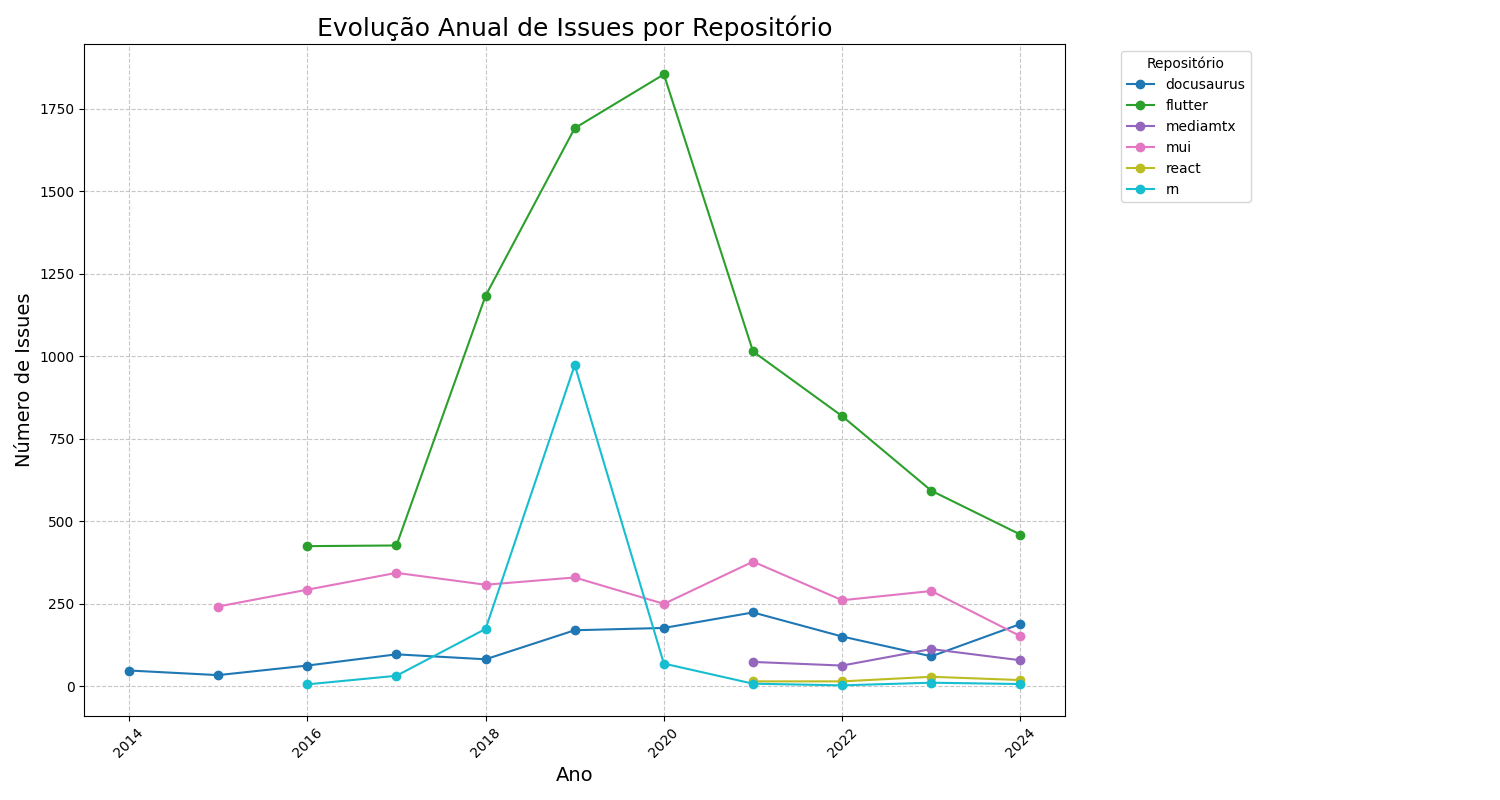
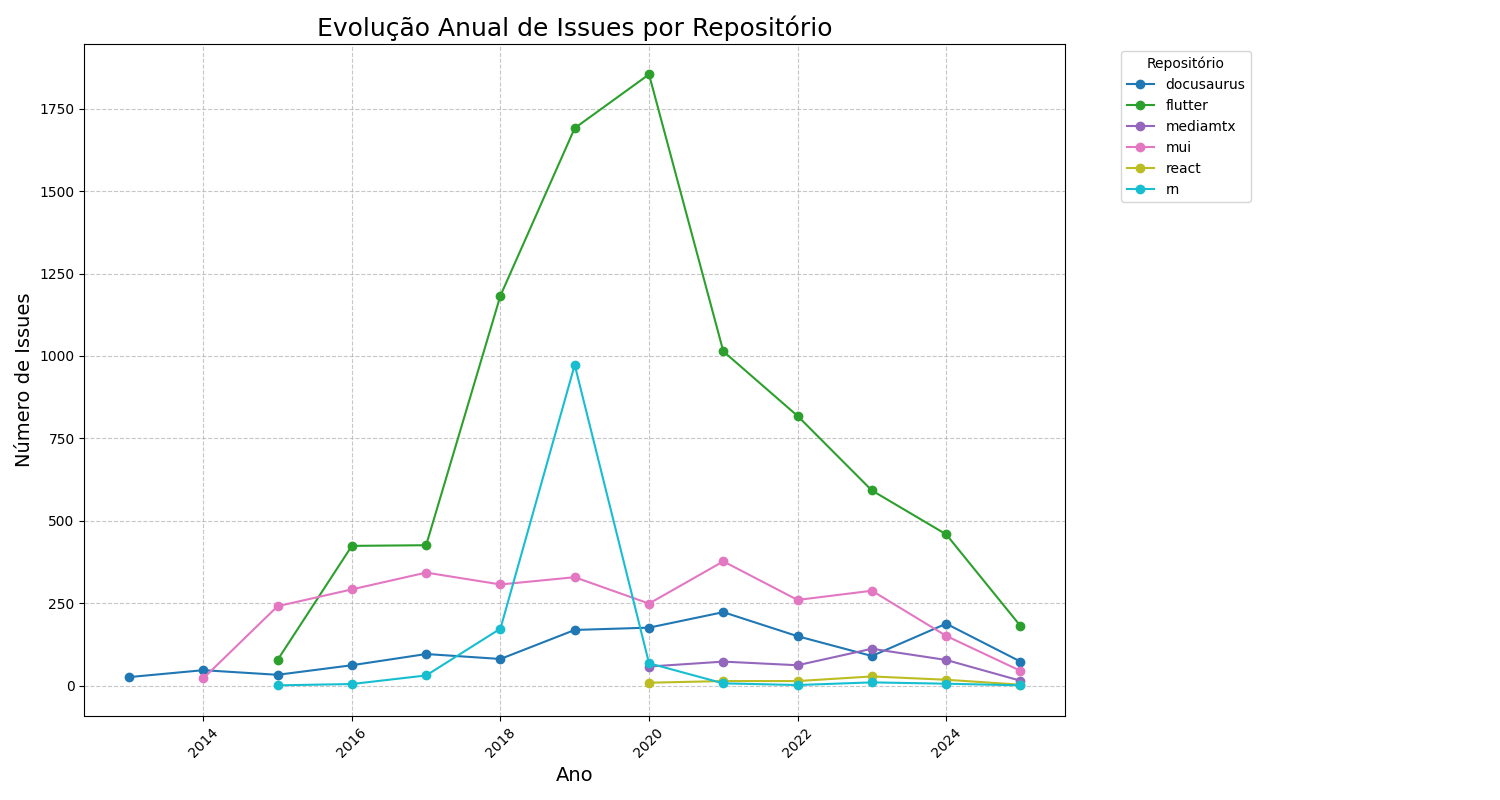
o o plot.py também cria um gráfico de linhas com as médias anuais por período

diff --git a/plot.py b/plot.py
@@ -5,94 +5,133 @@ import glob
 from matplotlib.ticker import MaxNLocator  # Para melhor controle dos ticks do eixo X
 
 
-def plotar_contagem_consolidada_anual():
+def plotar_analises_consolidadas():  # Renomeada para refletir que plota mais de uma análise
     """
-    Lê todos os arquivos CSV de contagem anual de issues,
-    plota todos em um único gráfico de linhas e salva como uma imagem PNG.
+    Gera dois gráficos consolidados:
+    1. Evolução anual de issues por repositório.
+    2. Média anual de issues por período (Antes_2023, Depois_2023) por repositório.
+    Os gráficos são salvos como imagens PNG.
     """
     pasta_entrada = "mine_results"
     pasta_saida_plots = os.path.join(pasta_entrada, "plots_contagem_anual")
 
-    # Criar a pasta de saída para os gráficos, se não existir
     os.makedirs(pasta_saida_plots, exist_ok=True)
 
-    # Padrão para encontrar os arquivos CSV de contagem anual
-    padrao_arquivos_csv = os.path.join(pasta_entrada, '*_contagem_anual.csv')
-    arquivos_csv_contagem = glob.glob(padrao_arquivos_csv)
+    # --- GRÁFICO 1: Evolução Anual de Issues por Repositório ---
+    print("--- Gerando Gráfico 1: Evolução Anual de Issues ---")
+    padrao_arquivos_contagem_anual = os.path.join(pasta_entrada, '*_contagem_anual.csv')
+    arquivos_csv_contagem_anual = glob.glob(padrao_arquivos_contagem_anual)
 
-    if not arquivos_csv_contagem:
-        print(f"Nenhum arquivo CSV de contagem anual ('*_contagem_anual.csv') encontrado em '{pasta_entrada}'.")
-        print("Certifique-se de que o script 'analise.py' foi executado e gerou esses arquivos.")
-        return
+    if not arquivos_csv_contagem_anual:
+        print(f"  Nenhum arquivo CSV de contagem anual ('*_contagem_anual.csv') encontrado em '{pasta_entrada}'.")
+    else:
+        print(f"  📊 Encontrados {len(arquivos_csv_contagem_anual)} arquivos para o gráfico de evolução anual.")
+        plt.figure(figsize=(15, 8))
+        cores_anual = plt.cm.get_cmap('tab10', len(arquivos_csv_contagem_anual))
 
-    print(f"📊 Encontrados {len(arquivos_csv_contagem)} arquivos de contagem anual para plotar no gráfico consolidado.")
+        for i, csv_file_path in enumerate(arquivos_csv_contagem_anual):
+            try:
+                base_name = os.path.basename(csv_file_path)
+                # print(f"    -> Processando {base_name} para evolução anual...")
+                df_contagem = pd.read_csv(csv_file_path)
 
-    plt.figure(figsize=(15, 8))  # Figura única para todos os plots
+                if 'ano' not in df_contagem.columns or 'numero_de_issues' not in df_contagem.columns:
+                    print(
+                        f"      Aviso: Colunas 'ano' ou 'numero_de_issues' não encontradas em '{base_name}'. Pulando.")
+                    continue
+                if df_contagem.empty:
+                    print(f"      Aviso: DataFrame vazio para '{base_name}'. Pulando.")
+                    continue
 
-    cores = plt.cm.get_cmap('tab10', len(arquivos_csv_contagem))  # Define um mapa de cores
+                df_contagem = df_contagem.sort_values(by='ano')
+                nome_legenda = base_name.split('_')[0]
+                plt.plot(df_contagem['ano'], df_contagem['numero_de_issues'],
+                         marker='o', linestyle='-', label=nome_legenda, color=cores_anual(i))
+            except Exception as e:
+                print(f"      ❌ Erro ao processar '{base_name}' para evolução anual: {e}")
 
-    for i, csv_file_path in enumerate(arquivos_csv_contagem):
+        plt.title('Evolução Anual de Issues por Repositório', fontsize=18)
+        plt.xlabel('Ano', fontsize=14)
+        plt.ylabel('Número de Issues', fontsize=14)
+        plt.grid(True, linestyle='--', alpha=0.7)
+        ax = plt.gca()
+        ax.xaxis.set_major_locator(MaxNLocator(integer=True))
+
+        if arquivos_csv_contagem_anual:
+            plt.legend(title="Repositório", bbox_to_anchor=(1.05, 1), loc='upper left')
+
+        plt.xticks(rotation=45)
+        plt.tight_layout(rect=[0, 0, 0.85, 1])
+
+        plot_filename_anual = 'consolidado_evolucao_anual_issues.png'
+        plot_output_path_anual = os.path.join(pasta_saida_plots, plot_filename_anual)
         try:
-            base_name = os.path.basename(csv_file_path)
-            print(f"  -> Processando arquivo para gráfico consolidado: {base_name}")
-
-            df_contagem = pd.read_csv(csv_file_path)
-
-            if 'ano' not in df_contagem.columns or 'numero_de_issues' not in df_contagem.columns:
-                print(f"    Aviso: Colunas 'ano' ou 'numero_de_issues' não encontradas em '{base_name}'. Pulando.")
-                continue
-
-            if df_contagem.empty:
-                print(f"    Aviso: DataFrame vazio para '{base_name}'. Pulando.")
-                continue
-
-            # Ordenar por ano para garantir que o gráfico de linha seja correto
-            df_contagem = df_contagem.sort_values(by='ano')
-
-            # Extrair nome para a legenda (primeira parte do nome do arquivo antes do '_')
-            # Ex: 'mediamtx_issues_2025-05_contagem_anual.csv' -> 'mediamtx'
-            # Ex: 'react_issues_contagem_anual.csv' -> 'react'
-            nome_legenda = base_name.split('_')[0]
-
-            plt.plot(df_contagem['ano'], df_contagem['numero_de_issues'],
-                     marker='o', linestyle='-', label=nome_legenda, color=cores(i))
-
+            plt.savefig(plot_output_path_anual)
+            print(f"  ✅ Gráfico de evolução anual salvo como: {plot_output_path_anual}\n")
         except Exception as e:
-            print(f"    ❌ Erro ao processar o arquivo '{base_name}' para o gráfico consolidado: {e}")
+            print(f"  ❌ Erro ao salvar o gráfico de evolução anual: {e}\n")
+        plt.close()
 
-    # Configurações do gráfico consolidado
-    plt.title('Evolução Anual de Issues por Repositório', fontsize=18)
-    plt.xlabel('Ano', fontsize=14)
-    plt.ylabel('Número de Issues', fontsize=14)
+    # --- GRÁFICO 2: Média Anual de Issues por Período por Repositório ---
+    print("--- Gerando Gráfico 2: Média Anual de Issues por Período ---")
+    padrao_arquivos_analise_periodo = os.path.join(pasta_entrada, '*_analise_periodo.csv')
+    arquivos_csv_analise_periodo = glob.glob(padrao_arquivos_analise_periodo)
 
-    plt.grid(True, linestyle='--', alpha=0.7)
+    if not arquivos_csv_analise_periodo:
+        print(f"  Nenhum arquivo CSV de análise por período ('*_analise_periodo.csv') encontrado em '{pasta_entrada}'.")
+        print("  Certifique-se de que o script 'analise.py' foi executado e gerou esses arquivos.")
+    else:
+        print(f"  📊 Encontrados {len(arquivos_csv_analise_periodo)} arquivos para o gráfico de média por período.")
+        plt.figure(figsize=(12, 7))  # Tamanho pode ser ajustado
+        cores_periodo = plt.cm.get_cmap('Dark2', len(arquivos_csv_analise_periodo))  # Outro mapa de cores
 
-    # Assegurar que os ticks do eixo X sejam inteiros (anos)
-    ax = plt.gca()
-    ax.xaxis.set_major_locator(MaxNLocator(integer=True))
+        for i, csv_file_path in enumerate(arquivos_csv_analise_periodo):
+            try:
+                base_name = os.path.basename(csv_file_path)
+                # print(f"    -> Processando {base_name} para média por período...")
+                df_periodo = pd.read_csv(csv_file_path)
 
-    # Adicionar legenda
-    if arquivos_csv_contagem:  # Só adiciona legenda se houver algo para plotar
-        plt.legend(title="Repositório", bbox_to_anchor=(1.05, 1), loc='upper left')  # Coloca a legenda fora do gráfico
+                if 'periodo' not in df_periodo.columns or 'media_anual_issues_periodo' not in df_periodo.columns:
+                    print(
+                        f"      Aviso: Colunas 'periodo' ou 'media_anual_issues_periodo' não encontradas em '{base_name}'. Pulando.")
+                    continue
+                if df_periodo.empty:
+                    print(f"      Aviso: DataFrame vazio para '{base_name}'. Pulando.")
+                    continue
 
-    plt.xticks(rotation=45)
-    plt.tight_layout(
-        rect=[0, 0, 0.85, 1])  # Ajusta o layout para não cortar os labels e dar espaço para legenda externa
+                # Garantir a ordem dos períodos se necessário (ex: Antes_2023, Depois_2023)
+                # Se 'periodo' já estiver ordenado no CSV ou for apenas esses dois, pode não ser crucial
+                # df_periodo['periodo'] = pd.Categorical(df_periodo['periodo'], categories=['Antes_2023', 'Depois_2023'], ordered=True)
+                # df_periodo = df_periodo.sort_values('periodo')
 
-    # Definir nome do arquivo de saída para o gráfico consolidado
-    plot_filename = 'consolidado_evolucao_anual_issues.png'
-    plot_output_path = os.path.join(pasta_saida_plots, plot_filename)
+                nome_legenda = base_name.split('_')[0]
+                plt.plot(df_periodo['periodo'], df_periodo['media_anual_issues_periodo'],
+                         marker='s', linestyle='--', label=nome_legenda, color=cores_periodo(i), linewidth=2)
+            except Exception as e:
+                print(f"      ❌ Erro ao processar '{base_name}' para média por período: {e}")
 
-    try:
-        plt.savefig(plot_output_path)
-        print(f"\n✅ Gráfico consolidado salvo como: {plot_output_path}")
-    except Exception as e:
-        print(f"\n❌ Erro ao salvar o gráfico consolidado: {e}")
+        plt.title('Média Anual de Issues por Período e Repositório', fontsize=18)
+        plt.xlabel('Período', fontsize=14)
+        plt.ylabel('Média Anual de Issues', fontsize=14)
+        plt.grid(True, axis='y', linestyle=':', alpha=0.7)  # Grid apenas no eixo Y para clareza com categorias
 
-    plt.close()  # Fecha a figura para liberar memória
+        if arquivos_csv_analise_periodo:
+            plt.legend(title="Repositório", bbox_to_anchor=(1.05, 1), loc='upper left')
 
-    print(f"\n🏁 Processamento de gráfico consolidado concluído. O gráfico foi salvo em: '{pasta_saida_plots}'")
+        plt.tight_layout(rect=[0, 0, 0.85, 1])
+
+        plot_filename_periodo = 'consolidado_media_anual_por_periodo.png'
+        plot_output_path_periodo = os.path.join(pasta_saida_plots, plot_filename_periodo)
+        try:
+            plt.savefig(plot_output_path_periodo)
+            print(f"  ✅ Gráfico de média por período salvo como: {plot_output_path_periodo}\n")
+        except Exception as e:
+            print(f"  ❌ Erro ao salvar o gráfico de média por período: {e}\n")
+        plt.close()
+
+    print(f"🏁 Processamento de gráficos concluído. Os gráficos foram salvos em: '{pasta_saida_plots}'")
 
 
 if __name__ == "__main__":
-    plotar_contagem_consolidada_anual()
+    # Renomear a chamada da função se você renomeou a função
+    plotar_analises_consolidadas()
